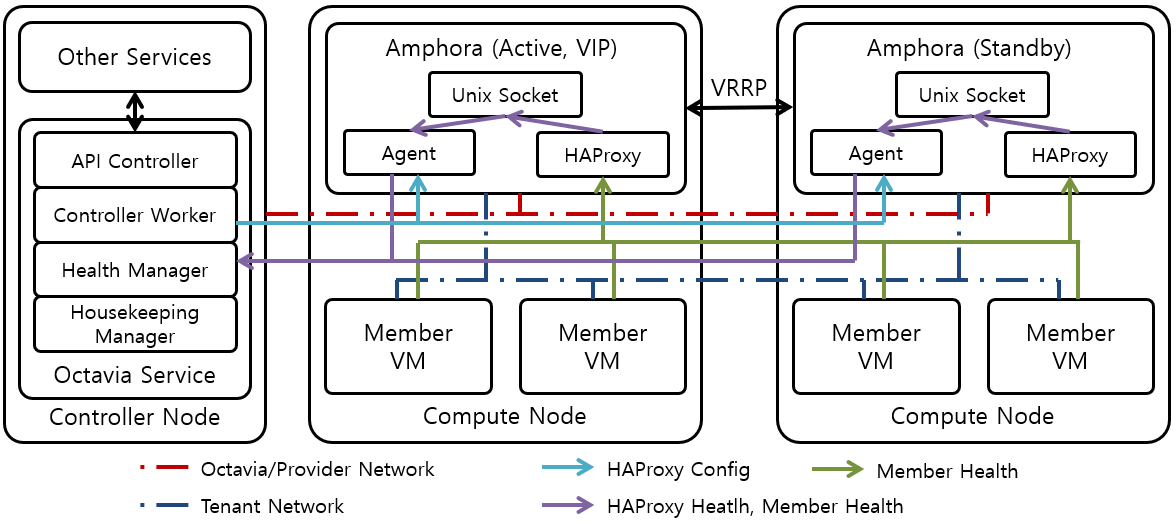
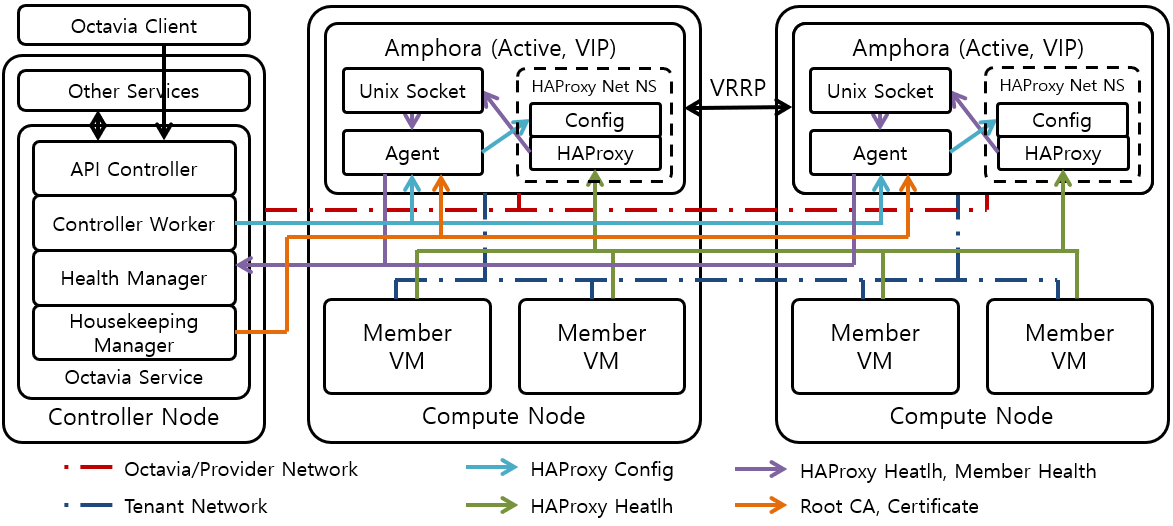
Update

diff --git a/_docs/theory_analysis/OpenStack_Octavia.md b/_docs/theory_analysis/OpenStack_Octavia.md
@@ -129,7 +129,68 @@ Octavia는 LBaaS (Load Balancer as a Service)를 제공하는 OpenStack의 Servi
 
 이러한 Octavia의 Concept Component는 Octavia의 Resource로 관리된다. [Shell 1]은 openstack CLI를 이용여 Octavia의 Resource를 조회하는 Shell을 나타내고 있다. 이러한 Octavia Concept은 Neutron LBaaS V2와 동일하며, Octavia는 Neutron LBaaS V2 API를 그대로 지원한다는 특징도 갖고 있다.
 
+#### 1.1. Architecture
+
 ![[그림 2] OpenStack Octavia Architecture]({{site.baseurl}}/images/theory_analysis/OpenStack_Octavia/Octavia_Architecture.PNG)
+
+[그림 2]는 Octavia의 Architecture를 나타내고 있다. Controller Node에는 Octavia Service가 동작하고 있고, Octavia의 Load Balancer Instance인 Amphora는 Compute Node에서 동작한다. Amphora는 VM, PM, Container로 구성 가능하다. Octavia Service와 Amphora 사이의 통신은 일반적으로 Provider가 생성하는 Octvia 전용 Network를 통해서 이루어진다.
+
+Octavia Client는 Octavia Service의 API Controller에게 LB 생성을 요청하면 API Controller는 Nova, Neutron 같은 다른 OpenStack Service의 도움을 받아 Amphora를 생성한다. Amphora 생성이 완료되면 Octavia Service의 Controller Worker는 Amphora의 Agent를 통해서 HAProxy의 Config 파일을 생성하고 HAProxy를 구동한다. Member의 Health Check는 Agent의 설정에 따라서 HAProxy가 수행한다. HAProxy가 수집한 Member의 Health 상태는 Unix Socket을 통해서 Agent에 전달되며, Agent는 다시 Controller Worker에게 전달한다.
+
+Controller Worker는 전달 받은 Member의 Health 상태를 Octavia의 Member Resource에 반영한다. Housekeeping Manager는 삭제된 Resource를 Octavia DB에서 완전히 지우는 역활 및 Amphora의 Certificate를 관리하는 역활을 수행한다. Amphora는 Standalone 또는 HA를 위한 Active-Standby로 동작한다. [그림 1]에서는 Active-Standby 형태로 동작하는 Amphora를 나타내고 있다.
+
+{% highlight text %}
+[DEFAULT]
+debug = False
+
+[haproxy_amphora]
+base_cert_dir = /var/lib/octavia/certs
+base_path = /var/lib/octavia
+bind_host = ::
+bind_port = 9443
+haproxy_cmd = /usr/sbin/haproxy
+respawn_count = 2
+respawn_interval = 2
+use_upstart = True
+
+[health_manager]
+controller_ip_port_list = 192.168.0.31:5555
+heartbeat_interval = 10
+heartbeat_key = insecure
+
+[amphora_agent]
+agent_server_ca = /etc/octavia/certs/client_ca.pem
+agent_server_cert = /etc/octavia/certs/server.pem
+agent_request_read_timeout = 180
+amphora_id = c7e877d5-f1c6-4fb2-a9fb-214cb7cc793a
+amphora_udp_driver = keepalived_lvs
+
+[controller_worker]
+loadbalancer_topology = ACTIVE_STANDBY
+{% endhighlight %}
+<figure>
+<figcaption class="caption">[파일 1] amphora-agent.conf</figcaption>
+</figure>
+
+[파일 1]은 Agent의 Config 파일을 나타내고 있다. HAProxy 설정, Health Manager 설정, Amphora 동작 모드 설정들을 찾아볼수 있다. 
+
+{% highlight console %}
+# ip netns list
+amphora-haproxy
+
+# ip netns exec amphora-haproxy ip a
+1: lo: <LOOPBACK> mtu 65536 qdisc noop state DOWN group default qlen 1
+    link/loopback 00:00:00:00:00:00 brd 00:00:00:00:00:00
+3: eth1: <BROADCAST,MULTICAST,UP,LOWER_UP> mtu 1450 qdisc pfifo_fast state UP group default qlen 1000
+    link/ether fa:16:3e:f0:b8:43 brd ff:ff:ff:ff:ff:ff
+    inet 30.0.0.123/24 brd 30.0.0.255 scope global eth1
+       valid_lft forever preferred_lft forever
+{% endhighlight %}
+<figure>
+<figcaption class="caption">[Shell 2] HAProxy Network Namespace in Amphora</figcaption>
+</figure>
+
+HAProxy는 Amphora의 Network Namespace가 아닌 HAProxy 전용 Network Namespace를 이용한다. [Shell 2]는 HAProxy Network Namespace에서 VIP를 갖고 있는 Interface를 나타내고 있다.
 
 ### 2. 참조
 
